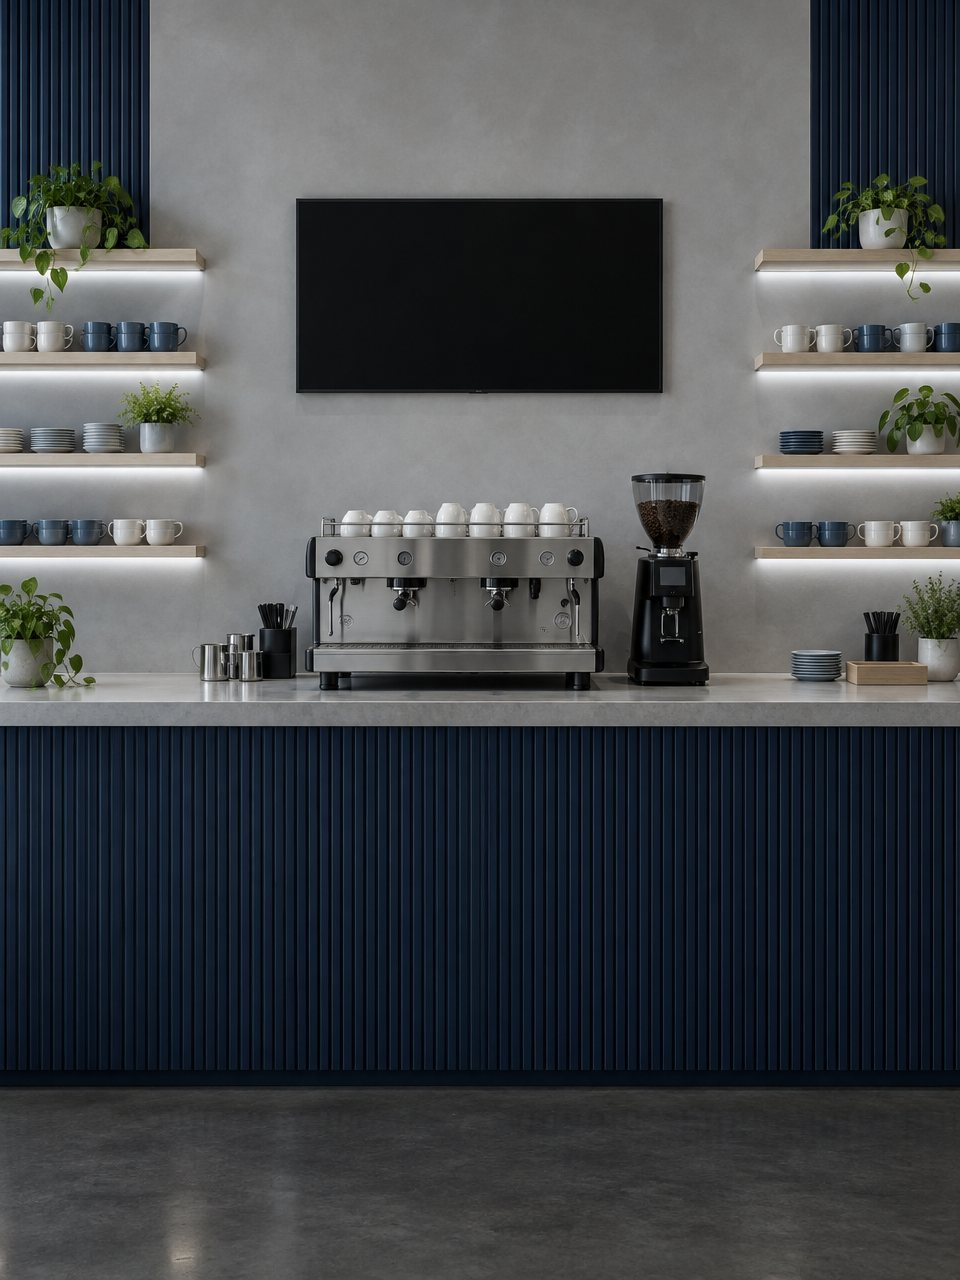
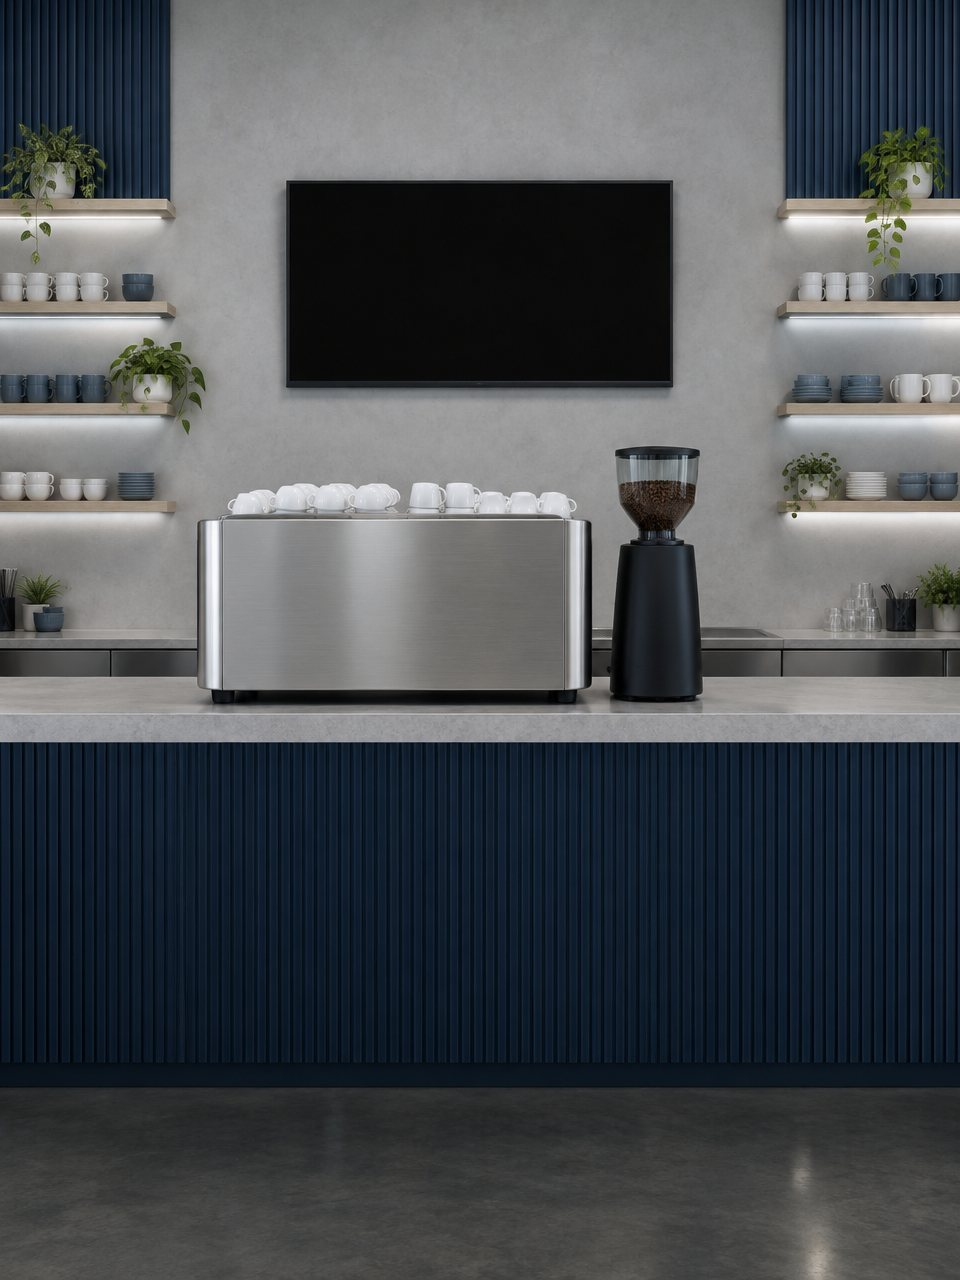
로그인 매장 비주얼: 머신 정면 구도 재생성 + 2x 이미지(srcset) 적용
- 매장 장면 재생성: 손님 시점에서 에스프레소 머신·그라인더의 전면 외관이 보이도록
  (인테리어·색감·디스플레이 위치는 유지, 디스플레이 좌표 재측정)
- store-scene@2x.jpg(1920×2560, Lanczos 2배+샤프닝) 추가, srcset/sizes로 DPR별 선택
  · 생성 도구 출력 상한 960×1280 → 진짜 고해상 원본은 아님(HANDOFF TODO)
- 디스플레이 슬라이드 이미지 1536×864 원본 크기로 교체

diff --git a/app/styles.css b/app/styles.css
@@ -190,8 +190,8 @@ textarea.input{height:auto;padding:10px 12px;resize:vertical}
 .auth-scene-in{position:absolute;left:50%;top:30%;width:max(100cqw,75cqh);aspect-ratio:3/4;transform:translate(-50%,-30%)}
 .auth-scene-img{position:absolute;inset:0;width:100%;height:100%;object-fit:cover;display:block}
 .auth-brand::after{content:"";position:absolute;left:0;right:0;bottom:0;height:36.7%;z-index:1;pointer-events:none;background:linear-gradient(0deg,#000 0%,rgba(0,0,0,.9) 8.5%,rgba(0,0,0,.71) 25.5%,rgba(0,0,0,.52) 42.5%,rgba(0,0,0,.33) 59.6%,rgba(0,0,0,.12) 80.9%,rgba(0,0,0,0) 100%)} /* 하단 블랙 그라데이션 — 패널 하단 36.7%, 시안(2026-11-12) 실측값 */
-/* 디스플레이 화면(이미지 960×1280 기준 x299·y202·360×187) */
-.auth-screen{position:absolute;left:31.15%;top:15.78%;width:37.5%;height:14.61%;overflow:hidden;background:#0B1220;container-type:size;box-shadow:0 0 6cqw rgba(160,190,255,.16)}
+/* 디스플레이 화면(이미지 960×1280 기준 x290·y184·380×197) */
+.auth-screen{position:absolute;left:30.21%;top:14.38%;width:39.58%;height:15.39%;overflow:hidden;background:#0B1220;container-type:size;box-shadow:0 0 6cqw rgba(160,190,255,.16)}
 .auth-screen::after{content:"";position:absolute;inset:0;background:linear-gradient(115deg,rgba(255,255,255,.07) 0%,rgba(255,255,255,0) 40%)}
 .auth-screen .slide{position:absolute;inset:0;display:flex;flex-direction:column;justify-content:center;padding:0 5cqw;background-size:cover;background-position:right center;animation:auth-slide 12s infinite;opacity:0}
 .auth-screen .s-menu{background-image:url(../uploads/login/board-drinks.jpg);color:#EAF0FF}

diff --git a/app/prototype.html b/app/prototype.html
@@ -58,9 +58,10 @@
   <aside class="auth-brand">
     <!-- 좌측 배경 = 실제 매장 장면(장식). 벽걸이 디스플레이 화면 영역에 메뉴·프로모션 콘텐츠를 HTML로 얹어 교차 전환.
          이미지는 패널을 cover로 채우고(가로 중앙·세로 30% 기준), 디스플레이 좌표는 이미지 기준 %라 크롭돼도 화면에 정확히 붙는다.
+         srcset: 1x=store-scene.jpg(960w) · 2x=store-scene@2x.jpg(1920w). sizes는 .auth-scene-in 폭 계산식(max(100cqw,75cqh) = 패널 44vw / 75vh)과 동일.
          이미지 실패 시 장면 전체를 숨기고 네이비 배경만 남김. 모바일(≤1100px)은 패널이 숨겨져 lazy 이미지를 받지 않는다. -->
     <div class="auth-scene" aria-hidden="true"><div class="auth-scene-in">
-      <img class="auth-scene-img" src="../uploads/login/store-scene.jpg" alt="" loading="lazy" decoding="async" onerror="this.closest('.auth-scene').hidden=true">
+      <img class="auth-scene-img" src="../uploads/login/store-scene.jpg" srcset="../uploads/login/store-scene.jpg 960w, ../uploads/login/store-scene@2x.jpg 1920w" sizes="max(44vw, 75vh)" alt="" loading="lazy" decoding="async" onerror="this.closest('.auth-scene').hidden=true">
       <div class="auth-screen">
         <div class="slide s-menu"><span class="k">COFFEE</span><ul><li>아메리카노<b>4,500</b></li><li>카페 라떼<b>5,000</b></li><li>콜드브루<b>5,500</b></li></ul></div>
         <div class="slide s-promo"><span class="k">SEASON LIMITED</span><strong>블루베리 라떼</strong><em>5,900</em></div>

diff --git a/HANDOFF.md b/HANDOFF.md
@@ -325,9 +325,10 @@ Program 편성표     { id, name, broadcast:boolean, scopes:Scope[], blocks:Bloc
 ## 로그인 좌측 — 매장 메뉴보드 비주얼 (`app/prototype.html` `.auth-scene` · `app/styles.css` `.auth-brand` / `.auth-screen`)
 - 좌측 패널 전체를 실제 매장 장면으로 채우고, 로고·헤드라인·설명·운영 지표는 그 위에 오버레이(하단 정렬). 하단 블랙 그라데이션 = 패널 하단 36.7%, 투명도 0→1(시안 실측), 설명·지표 라벨 #BEBEBE. 우측 로그인 영역은 변경 없음.
 - 에셋(`uploads/login/`, Figma AI 생성 — 원본 Figma 파일 URlJcOw8r1vf1CC1wYrlrd):
-  - `store-scene.jpg` 960×1280 — 카페 내부(블루·네이비·쿨그레이 톤, 브랜드 블루 #3B66F1과 조화), 벽걸이 디스플레이(화면은 꺼진 상태로 생성)
-  - `board-drinks.jpg` · `board-promo.jpg` 960×540 — 디스플레이에 얹는 메뉴/프로모션 슬라이드 배경
+  - `store-scene.jpg` 960×1280(1x) · `store-scene@2x.jpg` 1920×2560(2x, `srcset`/`sizes="max(44vw, 75vh)"`로 DPR에 따라 선택) — 카페 내부(블루·네이비·쿨그레이 톤, 브랜드 블루 #3B66F1과 조화), 벽걸이 디스플레이(화면은 꺼진 상태로 생성)
+    ⚠ 2x 파일은 생성 원본(960×1280)을 Lanczos 2배 + 언샤프 마스크로 만든 것 — 진짜 고해상 디테일은 아님. 생성 도구(Figma AI) 출력 상한이 960×1280.
+  - `board-drinks.jpg` · `board-promo.jpg` 1536×864 — 디스플레이에 얹는 메뉴/프로모션 슬라이드 배경
 - 디스플레이 콘텐츠는 HTML(`.auth-screen .slide`) — 메뉴·가격 텍스트가 선명하고 문구 교체가 쉬움. 2장 6초 간격 교차 전환(CSS 애니메이션). `prefers-reduced-motion`이면 첫 장 고정.
-- 크롭: `.auth-scene`을 이미지 비율(3:4)로 두고 `width:max(100cqw,75cqh)`로 패널을 덮음(= object-fit:cover). 가로 중앙·세로 30% 기준이라 디스플레이가 잘리지 않음. 디스플레이 좌표는 이미지 기준 %(x299·y202·360×187 / 960×1280) — **이미지를 교체하면 좌표도 다시 측정**.
+- 크롭: `.auth-scene`을 이미지 비율(3:4)로 두고 `width:max(100cqw,75cqh)`로 패널을 덮음(= object-fit:cover). 가로 중앙·세로 30% 기준이라 디스플레이가 잘리지 않음. 디스플레이 좌표는 이미지 기준 %(x290·y184·380×197 / 960×1280) — **이미지를 교체하면 좌표도 다시 측정**.
 - 실패 처리: 장면 이미지 `onerror` → 장면 전체 숨김(네이비 배경 + 텍스트만). 모바일(≤1100px)은 패널이 숨겨지고 이미지는 `loading="lazy"`라 받지 않음.
-- TODO(디자인): 장면 이미지 해상도 960×1280 — 대형 모니터(패널 폭 800px+, 2x)에선 약간 소프트. 확정 시 고해상도 원본으로 교체.
+- TODO(디자인): 장면 이미지 실제 해상도 960×1280 — 확정 시 AI 업스케일(Topaz/Real-ESRGAN 등) 또는 고해상 원본으로 `store-scene@2x.jpg`(1920×2560 이상)만 교체하면 됨(좌표·코드 변경 없음).
